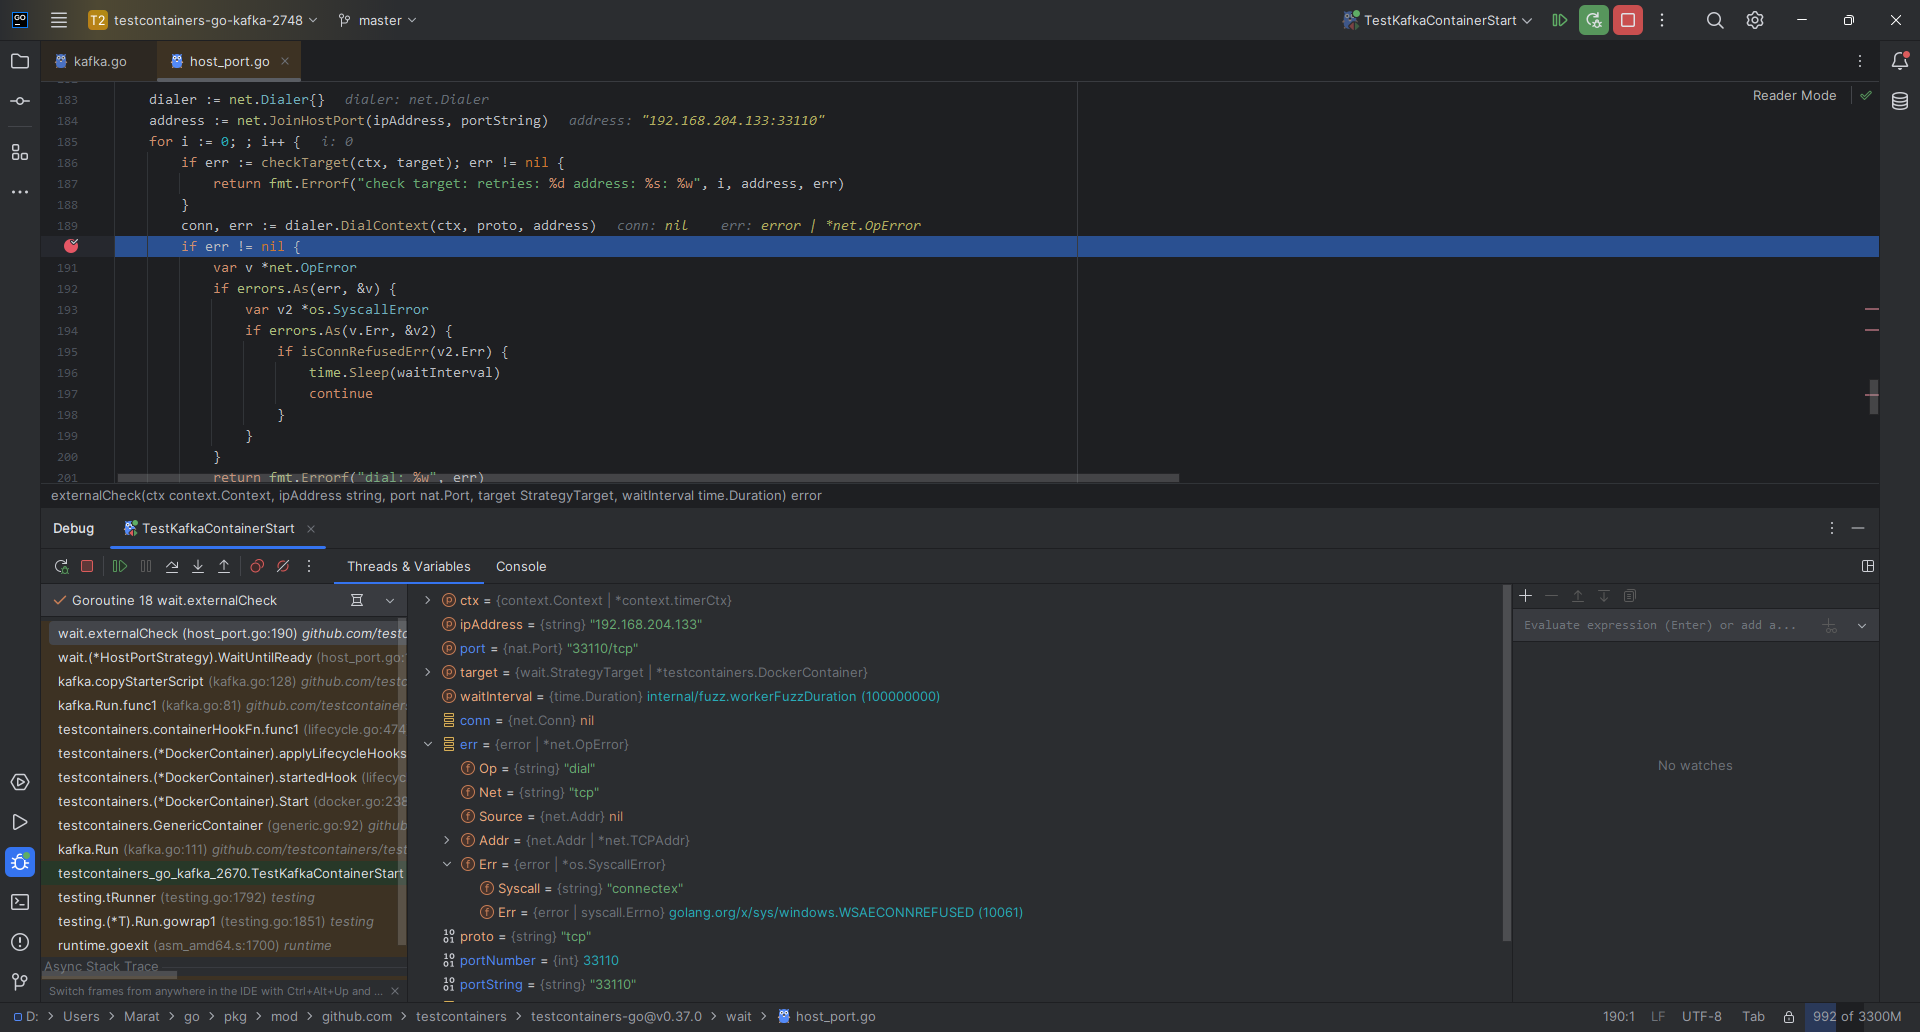
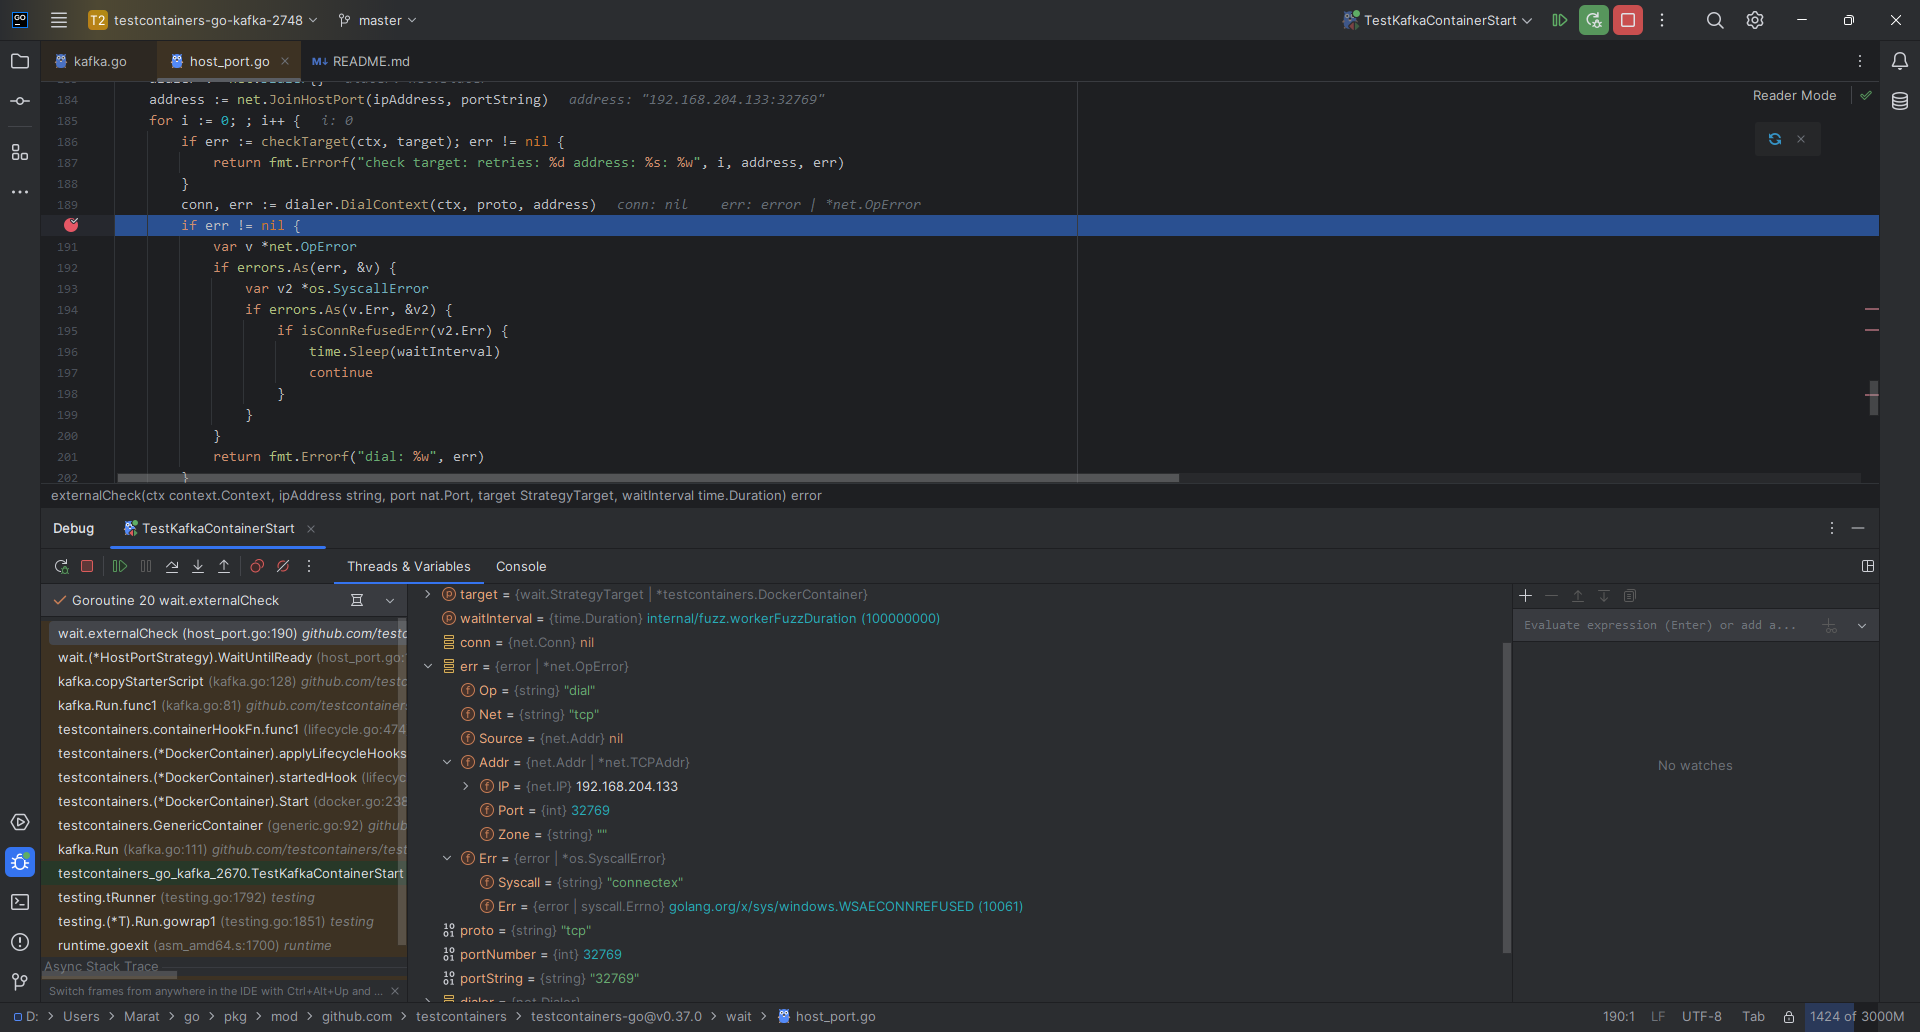
Results of container port check with dial app in README.

diff --git a/README.md b/README.md
@@ -227,45 +227,51 @@ State of container with Kafka checked from **the same host** where Docker Engine
 ```text
 $ docker ps -a
 CONTAINER ID   IMAGE                                COMMAND                  CREATED          STATUS          PORTS                                                               NAMES
-02c15f286f83   testcontainers/ryuk:0.11.0           "/bin/ryuk"              50 seconds ago   Up 49 seconds   0.0.0.0:33109->8080/tcp, [::]:33109->8080/tcp                       reaper_19bae5506339493c431aeb8f0b4817ddacf8656f71ec2e56a794bee2612ebb1f
-25abb1f264a5   confluentinc/confluent-local:7.5.0   "sh -c 'while [ ! -f…"   50 seconds ago   Up 46 seconds   8082/tcp, 9092/tcp, 0.0.0.0:33110->9093/tcp, [::]:33110->9093/tcp   happy_austin
-$ docker top 25abb1f264a5
+7b4fe6f9b360   testcontainers/ryuk:0.11.0           "/bin/ryuk"              16 seconds ago   Up 15 seconds   0.0.0.0:32768->8080/tcp, [::]:32768->8080/tcp                       reaper_6461954d8f181db3edcf1c530cc39b02e69704ae64584bed88dcb9723931b3ed
+aab913cad229   confluentinc/confluent-local:7.5.0   "sh -c 'while [ ! -f…"   16 seconds ago   Up 12 seconds   8082/tcp, 9092/tcp, 0.0.0.0:32769->9093/tcp, [::]:32769->9093/tcp   bold_lichterman
+$ docker top aab913cad229
 UID                 PID                 PPID                C                   STIME               TTY                 TIME                CMD
-abrarovm            205189              205166              0                   02:14               ?                   00:00:00            sh -c while [ ! -f /usr/sbin/testcontainers_start.sh ]; do sleep 0.1; done; bash /usr/sbin/testcontainers_start.sh
-abrarovm            205711              205189              0                   02:15               ?                   00:00:00            /usr/bin/coreutils --coreutils-prog-shebang=sleep /usr/bin/sleep 0.1
-$ docker logs 25abb1f264a5
-$ nc -vz 127.0.0.1 33110
+abrarovm            2512                2489                1                   13:46               ?                   00:00:00            sh -c while [ ! -f /usr/sbin/testcontainers_start.sh ]; do sleep 0.1; done; bash /usr/sbin/testcontainers_start.sh
+$ docker logs aab913cad229
+$ nc -vz 127.0.0.1 32769
 Ncat: Version 7.92 ( https://nmap.org/ncat )
-Ncat: Connected to 127.0.0.1:33110.
-Ncat: 0 bytes sent, 0 bytes received in 0.01 seconds.
-$ ./.build/dial 127.0.0.1:33110
-Connected to: "127.0.0.1:33110"
+Ncat: Connected to 127.0.0.1:32769.
+Ncat: 0 bytes sent, 0 bytes received in 0.02 seconds.
+$ ./.build/dial 127.0.0.1:32769
+Connected to: "127.0.0.1:32769"
+$ ip address show | grep 192
+    inet 192.168.204.133/24 brd 192.168.204.255 scope global dynamic noprefixroute ens160
+$ nc -vz 192.168.204.133 32769
+Ncat: Version 7.92 ( https://nmap.org/ncat )
+Ncat: Connection refused.
+$ ./.build/dial 192.168.204.133:32769
+Dial error: &os.SyscallError{Syscall:"connect", Err:0x6f}
 ```
 
 State of container with Kafka checked in Git Bash **from remote host** where the test runs when the test is stopped at breakpoint:
 
 ```text
 $ docker ps -a
-CONTAINER ID   IMAGE                                COMMAND                  CREATED              STATUS              PORTS                                                               NAMES
-02c15f286f83   testcontainers/ryuk:0.11.0           "/bin/ryuk"              About a minute ago   Up About a minute   0.0.0.0:33109->8080/tcp, [::]:33109->8080/tcp                       reaper_19bae5506339493c431aeb8f0b4817ddacf8656f71ec2e56a794bee2612ebb1f
-25abb1f264a5   confluentinc/confluent-local:7.5.0   "sh -c 'while [ ! -f…"   About a minute ago   Up About a minute   8082/tcp, 9092/tcp, 0.0.0.0:33110->9093/tcp, [::]:33110->9093/tcp   happy_austin
-$ docker top 25abb1f264a5
+CONTAINER ID   IMAGE                                COMMAND                  CREATED         STATUS         PORTS                                                               NAMES
+7b4fe6f9b360   testcontainers/ryuk:0.11.0           "/bin/ryuk"              2 minutes ago   Up 2 minutes   0.0.0.0:32768->8080/tcp, [::]:32768->8080/tcp                       reaper_6461954d8f181db3edcf1c530cc39b02e69704ae64584bed88dcb9723931b3ed
+aab913cad229   confluentinc/confluent-local:7.5.0   "sh -c 'while [ ! -f…"   2 minutes ago   Up 2 minutes   8082/tcp, 9092/tcp, 0.0.0.0:32769->9093/tcp, [::]:32769->9093/tcp   bold_lichterman
+$ docker top aab913cad229
 UID                 PID                 PPID                C                   STIME               TTY                 TIME                CMD
-abrarovm            205189              205166              0                   02:14               ?                   00:00:00            sh -c while [ ! -f /usr/sbin/testcontainers_start.sh ]; do sleep 0.1; done; bash /usr/sbin/testcontainers_start.sh
-abrarovm            206209              205189              0                   02:16               ?                   00:00:00            /usr/bin/coreutils --coreutils-prog-shebang=sleep /usr/bin/sleep 0.1
-$ docker logs 25abb1f264a5
-$ ./.build/dial.exe 192.168.204.133:33110
+abrarovm            2512                2489                0                   13:46               ?                   00:00:01            sh -c while [ ! -f /usr/sbin/testcontainers_start.sh ]; do sleep 0.1; done; bash /usr/sbin/testcontainers_start.sh
+abrarovm            4210                2512                0                   13:49               ?                   00:00:00            /usr/bin/coreutils --coreutils-prog-shebang=sleep /usr/bin/sleep 0.1
+$ docker logs aab913cad229
+$ ./.build/dial 192.168.204.133:32769
 Dial error: &os.SyscallError{Syscall:"connectex", Err:0x274d}
 ```
 
 State of container with Kafka checked in PowerShell 5.1 **from remote host** where the test runs when the test is stopped at breakpoint:
 
 ```text
-> Test-NetConnection -InformationLevel "Detailed" -ComputerName 192.168.204.133 -Port 33110                                                                         
-TCP connect to (192.168.204.133 : 33110) failed
+> Test-NetConnection -InformationLevel "Detailed" -ComputerName 192.168.204.133 -Port 32769                                                                         
+TCP connect to (192.168.204.133 : 32769) failed
 ComputerName            : 192.168.204.133
 RemoteAddress           : 192.168.204.133
-RemotePort              : 33110
+RemotePort              : 32769
 NameResolutionResults   : 192.168.204.133
                           dev.local
 MatchingIPsecRules      :
@@ -282,9 +288,9 @@ TcpTestSucceeded        : False
 State of container with Kafka checked **from remote host** running Ubuntu 24.04 and connected to the same network when the test is stopped at breakpoint:
 
 ```text
-$ nc -vz 192.168.204.133 33110
-nc: connect to 192.168.204.133 port 33110 (tcp) failed: Connection refused
-$ ./.build/dial 192.168.204.133:33110
+$ nc -vz 192.168.204.133 32769
+nc: connect to 192.168.204.133 port 32769 (tcp) failed: Connection refused
+$ ./.build/dial 192.168.204.133:32769
 Dial error: &os.SyscallError{Syscall:"connect", Err:0x6f}
 ```
 
@@ -293,7 +299,7 @@ Output of test:
 ```text
 === RUN   TestKafkaContainerStart
     testcontainers_kafka_test.go:16: starting container using image: confluentinc/confluent-local:7.5.0
-    testcontainers_kafka_test.go:19: container start failed: generic container: start container: started hook: copy starter script: wait for exposed port: external check: dial: dial tcp 192.168.204.133:33110: i/o timeout
+    testcontainers_kafka_test.go:19: container start failed: generic container: start container: started hook: copy starter script: wait for exposed port: external check: dial: dial tcp 192.168.204.133:32769: i/o timeout
 --- FAIL: TestKafkaContainerStart (399.42s)
 
 FAIL
